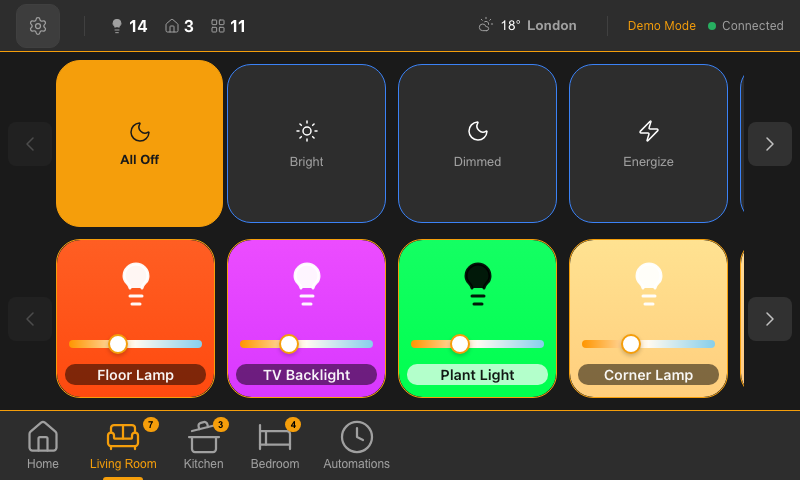
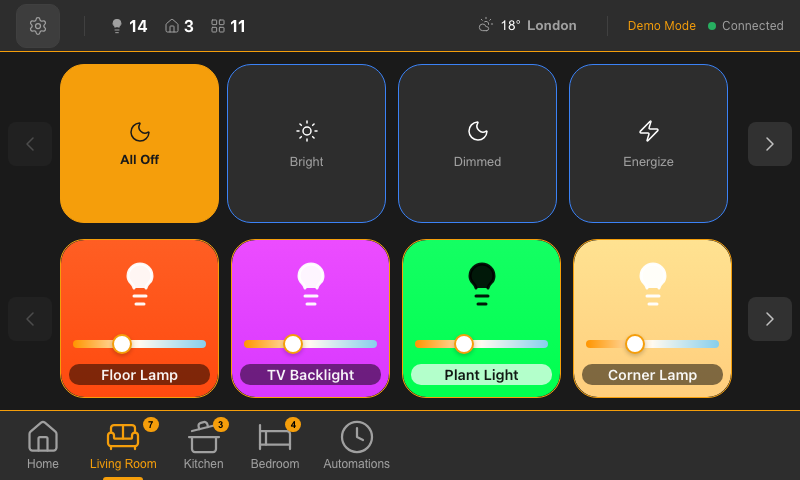
Fix All Off tile size and carousel overlap
- Adjust fixed tile height to match carousel padding (calc(100% - 8px))
- Add margin to fixed tile to match carousel tile positioning
- Increase gap between elements to 8px
- Add clip-path to carousel to prevent content overflow

🤖 Generated with [Claude Code](https://claude.com/claude-code)

diff --git a/frontend/src/App.css b/frontend/src/App.css
@@ -1905,7 +1905,7 @@ body.dark-theme {
   align-items: stretch;
   flex: 1;
   min-width: 0;
-  gap: 4px;
+  gap: 8px;
 }
 
 /* Scrollable carousel area */
@@ -1922,6 +1922,8 @@ body.dark-theme {
   min-width: 0;
   padding: 4px 0;
   touch-action: pan-x;
+  /* Clip content at edges so partial tiles don't overflow */
+  clip-path: inset(0);
 }
 
 .tiles-carousel::-webkit-scrollbar {
@@ -1993,7 +1995,8 @@ body.dark-theme {
 /* Fixed tile in carousel row - sits between chevron and scrollable area */
 .carousel-fixed-tile {
   flex: 0 0 auto;
-  height: 100%;
+  height: calc(100% - 8px);
+  margin: 4px 0;
   aspect-ratio: 1;
   min-width: unset !important;
   min-height: unset !important;
